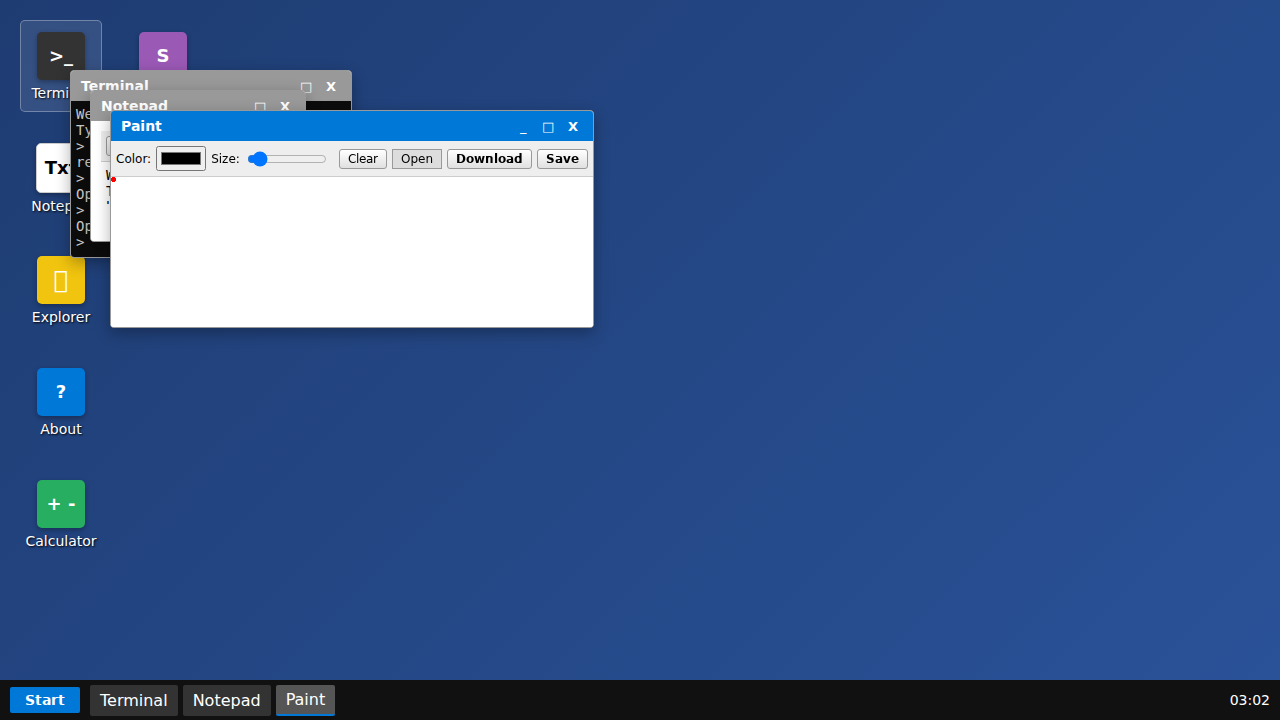
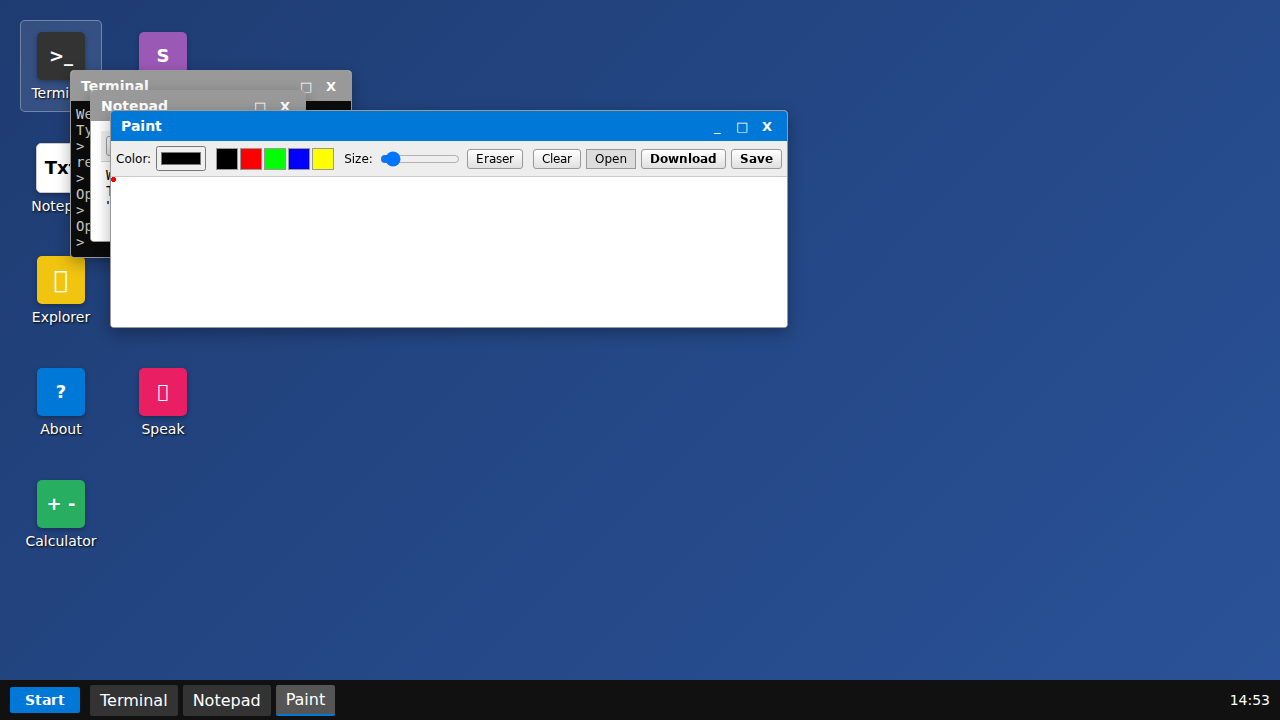
Add Speak app and improve Paint, Calculator, and Terminal
- Added a new 'Speak' app for text-to-speech.
- Improved Paint with an eraser tool and color palette.
- Improved Calculator with a history sidebar.
- Improved Terminal with `whoami`, `pwd`, and `history` commands.
- Updated styles and logic for all new features.

Changed region(s): [[0.1562, 0.1528, 0.625, 0.4583], [0.0938, 0.4889, 0.1562, 0.6111], [0.9688, 0.9472, 1.0, 0.9778]]

diff --git a/script.js b/script.js
@@ -123,29 +123,35 @@ function openApp(appName, arg = null) {
         win.classList.add('calculator-window');
         // Simple Calculator Layout
         content = `
-            <div class="calc-display" id="calc-display-${windowId}">0</div>
-            <div class="calc-buttons">
-                <button class="calc-btn clear" onclick="calcInput('${windowId}', 'C')">C</button>
-                <button class="calc-btn operator" onclick="calcInput('${windowId}', '/')">/</button>
-                <button class="calc-btn operator" onclick="calcInput('${windowId}', '*')">*</button>
-                <button class="calc-btn operator" onclick="calcInput('${windowId}', '-')">-</button>
+            <div class="calc-main">
+                <div class="calc-display" id="calc-display-${windowId}">0</div>
+                <div class="calc-buttons">
+                    <button class="calc-btn clear" onclick="calcInput('${windowId}', 'C')">C</button>
+                    <button class="calc-btn operator" onclick="calcInput('${windowId}', '/')">/</button>
+                    <button class="calc-btn operator" onclick="calcInput('${windowId}', '*')">*</button>
+                    <button class="calc-btn operator" onclick="calcInput('${windowId}', '-')">-</button>
 
-                <button class="calc-btn" onclick="calcInput('${windowId}', '7')">7</button>
-                <button class="calc-btn" onclick="calcInput('${windowId}', '8')">8</button>
-                <button class="calc-btn" onclick="calcInput('${windowId}', '9')">9</button>
-                <button class="calc-btn operator" onclick="calcInput('${windowId}', '+')">+</button>
+                    <button class="calc-btn" onclick="calcInput('${windowId}', '7')">7</button>
+                    <button class="calc-btn" onclick="calcInput('${windowId}', '8')">8</button>
+                    <button class="calc-btn" onclick="calcInput('${windowId}', '9')">9</button>
+                    <button class="calc-btn operator" onclick="calcInput('${windowId}', '+')">+</button>
 
-                <button class="calc-btn" onclick="calcInput('${windowId}', '4')">4</button>
-                <button class="calc-btn" onclick="calcInput('${windowId}', '5')">5</button>
-                <button class="calc-btn" onclick="calcInput('${windowId}', '6')">6</button>
-                <button class="calc-btn equals" style="grid-row: span 2" onclick="calcInput('${windowId}', '=')">=</button>
+                    <button class="calc-btn" onclick="calcInput('${windowId}', '4')">4</button>
+                    <button class="calc-btn" onclick="calcInput('${windowId}', '5')">5</button>
+                    <button class="calc-btn" onclick="calcInput('${windowId}', '6')">6</button>
+                    <button class="calc-btn equals" style="grid-row: span 2" onclick="calcInput('${windowId}', '=')">=</button>
 
-                <button class="calc-btn" onclick="calcInput('${windowId}', '1')">1</button>
-                <button class="calc-btn" onclick="calcInput('${windowId}', '2')">2</button>
-                <button class="calc-btn" onclick="calcInput('${windowId}', '3')">3</button>
+                    <button class="calc-btn" onclick="calcInput('${windowId}', '1')">1</button>
+                    <button class="calc-btn" onclick="calcInput('${windowId}', '2')">2</button>
+                    <button class="calc-btn" onclick="calcInput('${windowId}', '3')">3</button>
 
-                <button class="calc-btn" style="grid-column: span 2" onclick="calcInput('${windowId}', '0')">0</button>
-                <button class="calc-btn" onclick="calcInput('${windowId}', '.')">.</button>
+                    <button class="calc-btn" style="grid-column: span 2" onclick="calcInput('${windowId}', '0')">0</button>
+                    <button class="calc-btn" onclick="calcInput('${windowId}', '.')">.</button>
+                </div>
+            </div>
+            <div class="calc-history" id="calc-history-${windowId}">
+                <div class="history-title">History</div>
+                <div class="history-list"></div>
             </div>
         `;
     } else if (appName === 'snake') {
@@ -177,6 +183,14 @@ function openApp(appName, arg = null) {
                 </div>
             </div>
         `;
+    } else if (appName === 'speak') {
+        title = "Speak";
+        content = `
+            <div style="padding: 10px; display: flex; flex-direction: column; height: 100%; box-sizing: border-box;">
+                <textarea id="speak-text-${windowId}" style="flex-grow: 1; margin-bottom: 10px; resize: none; padding: 5px; font-family: sans-serif;" placeholder="Type text here..."></textarea>
+                <button onclick="speakText('${windowId}')" style="padding: 10px; cursor: pointer; font-weight: bold;">Speak</button>
+            </div>
+        `;
     } else if (appName === 'paint') {
         title = "Paint";
         win.classList.add('paint-window');
@@ -184,8 +198,20 @@ function openApp(appName, arg = null) {
             <div class="paint-toolbar" style="padding: 5px; background: #eee; display: flex; gap: 5px; align-items: center; border-bottom: 1px solid #ccc;">
                 <label style="font-size: 12px;">Color:</label>
                 <input type="color" id="paint-color-${windowId}" value="#000000" style="height: 25px; cursor: pointer;">
+
+                <div class="paint-palette">
+                    <div class="palette-color" style="background-color: #000000;" onclick="setPaintColor('${windowId}', '#000000')"></div>
+                    <div class="palette-color" style="background-color: #ff0000;" onclick="setPaintColor('${windowId}', '#ff0000')"></div>
+                    <div class="palette-color" style="background-color: #00ff00;" onclick="setPaintColor('${windowId}', '#00ff00')"></div>
+                    <div class="palette-color" style="background-color: #0000ff;" onclick="setPaintColor('${windowId}', '#0000ff')"></div>
+                    <div class="palette-color" style="background-color: #ffff00;" onclick="setPaintColor('${windowId}', '#ffff00')"></div>
+                </div>
+
                 <label style="font-size: 12px;">Size:</label>
                 <input type="range" id="paint-size-${windowId}" min="1" max="50" value="5" style="width: 80px; cursor: pointer;">
+
+                <button onclick="setPaintColor('${windowId}', '#ffffff')" style="font-size: 12px; padding: 2px 8px; cursor: pointer;">Eraser</button>
+
                 <div style="flex: 1;"></div>
                 <button onclick="clearPaint('${windowId}')" style="font-size: 12px; padding: 2px 8px; cursor: pointer;">Clear</button>
                 <label style="font-size: 12px; padding: 2px 8px; cursor: pointer; border: 1px solid #999; background: #ddd; display: inline-block;">
@@ -374,7 +400,7 @@ function handleTerminalCommand(cmd, outputDiv) {
     const args = parts.slice(1);
 
     if (command === 'help') {
-        response = 'Available commands: help, date, clear, echo [text], ls, cat [file], open [file], touch [file], rm [file], about, reboot';
+        response = 'Available commands: help, date, clear, echo [text], ls, cat [file], open [file], touch [file], rm [file], about, reboot, whoami, pwd, history';
     } else if (command === 'date') {
         response = new Date().toString();
     } else if (command === 'clear') {
@@ -444,10 +470,26 @@ function handleTerminalCommand(cmd, outputDiv) {
         response = 'Opened About window.';
     } else if (command === 'reboot') {
         location.reload();
+    } else if (command === 'whoami') {
+        response = 'user';
+    } else if (command === 'pwd') {
+        response = '/home/user';
+    } else if (command === 'history') {
+        // We need to track history first.
+        // For now, let's just show a placeholder or implement simple tracking
+        // But since we didn't add history tracking array, let's just say "Not implemented yet" or try to implement it now.
+        // Actually, let's implement a simple history array.
+        if (!window.terminalHistory) window.terminalHistory = [];
+        response = window.terminalHistory.join('\n');
     } else if (command === '') {
         response = '';
     } else {
         response = `Command not found: ${command}`;
+    }
+
+    if (cmd.trim() !== '') {
+        if (!window.terminalHistory) window.terminalHistory = [];
+        window.terminalHistory.push(cmd);
     }
 
     if (response) {
@@ -464,6 +506,7 @@ function handleTerminalCommand(cmd, outputDiv) {
 // Calculator Logic
 function calcInput(windowId, value) {
     const display = document.getElementById(`calc-display-${windowId}`);
+    const historyList = document.querySelector(`#calc-history-${windowId} .history-list`);
     if (!display) return;
 
     let currentText = display.textContent;
@@ -475,7 +518,17 @@ function calcInput(windowId, value) {
             // Safety check: only allow numbers and operators
             if (/^[0-9+\-/*.]+$/.test(currentText)) {
                 // eslint-disable-next-line no-eval
-                display.textContent = eval(currentText);
+                const result = eval(currentText);
+                display.textContent = result;
+
+                // Add to history
+                if (historyList) {
+                    const historyItem = document.createElement('div');
+                    historyItem.className = 'history-item';
+                    historyItem.innerHTML = `<span class="expr">${currentText} =</span><span class="res">${result}</span>`;
+                    historyList.prepend(historyItem);
+                }
+
             } else {
                 display.textContent = 'Error';
             }
@@ -563,6 +616,10 @@ function initPaint(windowId, filename = null) {
     canvas.addEventListener('touchstart', handleTouch(startPosition));
     canvas.addEventListener('touchend', handleTouch(endPosition));
     canvas.addEventListener('touchmove', handleTouch(drawPaint));
+}
+
+function setPaintColor(windowId, color) {
+    document.getElementById(`paint-color-${windowId}`).value = color;
 }
 
 function clearPaint(windowId) {
@@ -923,6 +980,15 @@ function loadFileSystem() {
         } catch (e) {
             console.error('Failed to load file system:', e);
         }
+    }
+}
+
+// Speak App Logic
+function speakText(windowId) {
+    const text = document.getElementById(`speak-text-${windowId}`).value;
+    if (text) {
+        const utterance = new SpeechSynthesisUtterance(text);
+        window.speechSynthesis.speak(utterance);
     }
 }
 

diff --git a/style.css b/style.css
@@ -317,6 +317,13 @@ body {
     background-color: #f0f0f0;
     padding: 10px;
     display: flex;
+    flex-direction: row;
+    gap: 10px;
+}
+
+.calc-main {
+    flex-grow: 1;
+    display: flex;
     flex-direction: column;
 }
 
@@ -339,6 +346,49 @@ body {
     grid-template-columns: repeat(4, 1fr);
     gap: 5px;
     flex-grow: 1;
+}
+
+.calc-history {
+    width: 150px;
+    background: #fff;
+    border: 1px solid #ccc;
+    display: flex;
+    flex-direction: column;
+}
+
+.history-title {
+    background: #e0e0e0;
+    padding: 5px;
+    font-size: 12px;
+    font-weight: bold;
+    border-bottom: 1px solid #ccc;
+    text-align: center;
+}
+
+.history-list {
+    flex-grow: 1;
+    overflow-y: auto;
+    padding: 5px;
+    font-family: 'Consolas', monospace;
+    font-size: 12px;
+}
+
+.history-item {
+    margin-bottom: 5px;
+    border-bottom: 1px solid #eee;
+    padding-bottom: 2px;
+    display: flex;
+    flex-direction: column;
+    align-items: flex-end;
+}
+
+.history-item .expr {
+    color: #666;
+}
+
+.history-item .res {
+    font-weight: bold;
+    font-size: 14px;
 }
 
 .calc-btn {
@@ -419,6 +469,24 @@ body {
     box-shadow: inset 0 1px 3px rgba(0,0,0,0.2);
 }
 
+.paint-palette {
+    display: flex;
+    gap: 2px;
+    margin: 0 5px;
+}
+
+.palette-color {
+    width: 20px;
+    height: 20px;
+    border: 1px solid #999;
+    cursor: pointer;
+}
+
+.palette-color:hover {
+    border-color: #000;
+    transform: scale(1.1);
+}
+
 /* Notepad Toolbar Styles */
 .notepad-toolbar {
     padding: 5px;
@@ -463,6 +531,12 @@ body {
     font-size: 14px;
     resize: none;
     outline: none;
+}
+
+/* Speak App Styles */
+#speak-text {
+    font-size: 16px;
+    line-height: 1.5;
 }
 
 /* Resize Handles */

diff --git a/index.html b/index.html
@@ -41,6 +41,10 @@
             <div class="icon-img" style="background-color: #777; color: white;">⚙</div>
             <div class="icon-label">Settings</div>
         </div>
+        <div class="icon" onclick="openApp('speak')">
+            <div class="icon-img" style="background-color: #e91e63; color: white;">🔊</div>
+            <div class="icon-label">Speak</div>
+        </div>
     </div>
 
     <div id="start-menu">
@@ -75,6 +79,10 @@
         <div class="start-item" onclick="openApp('about'); toggleStartMenu()">
             <div class="start-icon" style="background: #0078d7; color: white;">?</div>
             <span>About</span>
+        </div>
+        <div class="start-item" onclick="openApp('speak'); toggleStartMenu()">
+            <div class="start-icon" style="background: #e91e63; color: white;">🔊</div>
+            <span>Speak</span>
         </div>
         <div class="start-divider"></div>
         <div class="start-item" onclick="location.reload()">
